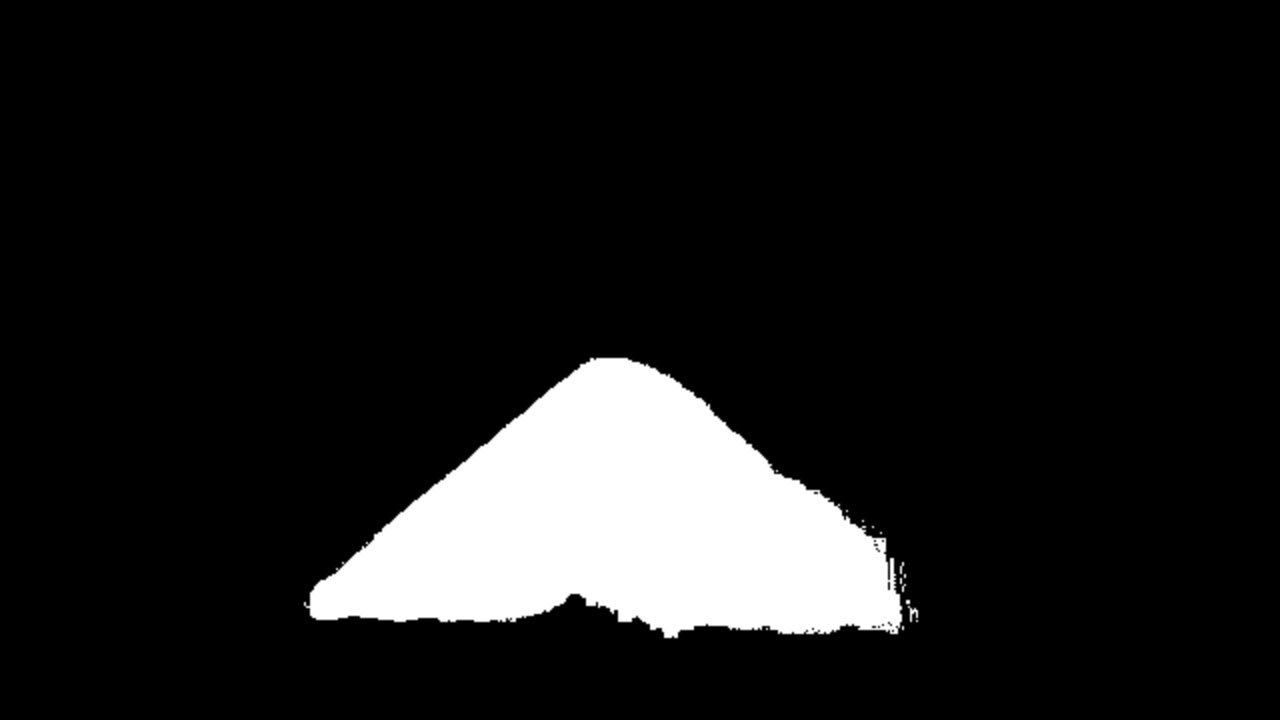
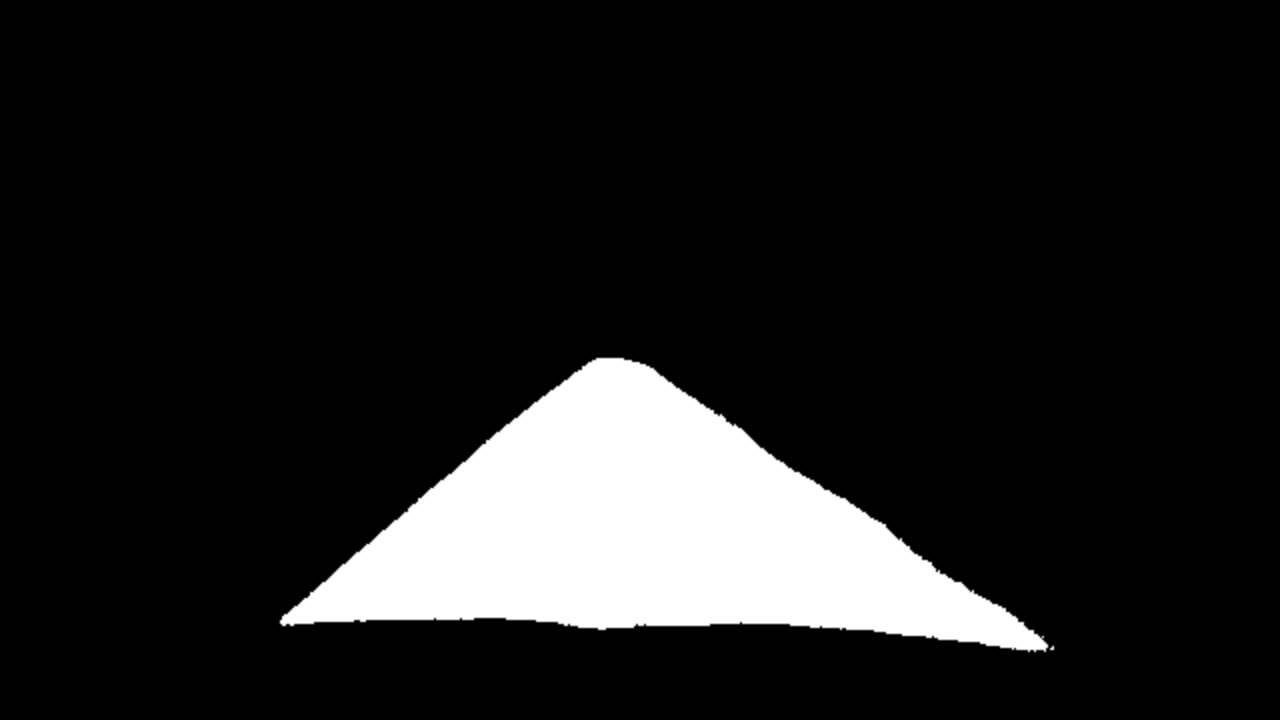
fixed bug in test_onnx.py and get better performance.

diff --git a/test_onnx.py b/test_onnx.py
@@ -66,7 +66,7 @@ def infer_yolop(weight="yolop-640-640.onnx",
     # resize & normalize
     canvas, r, dw, dh, new_unpad_w, new_unpad_h = resize_unscale(img_rgb, (640, 640))
 
-    img = canvas.copy().transpose(2, 0, 1).astype(np.float32)  # (3,640,640) RGB
+    img = canvas.copy().astype(np.float32)  # (3,640,640) RGB
     img /= 255.0
     img[:, :, 0] -= 0.485
     img[:, :, 1] -= 0.456
@@ -74,6 +74,8 @@ def infer_yolop(weight="yolop-640-640.onnx",
     img[:, :, 0] /= 0.229
     img[:, :, 1] /= 0.224
     img[:, :, 2] /= 0.225
+
+    img = img.transpose(2, 0, 1)
 
     img = np.expand_dims(img, 0)  # (1, 3,640,640)
 
